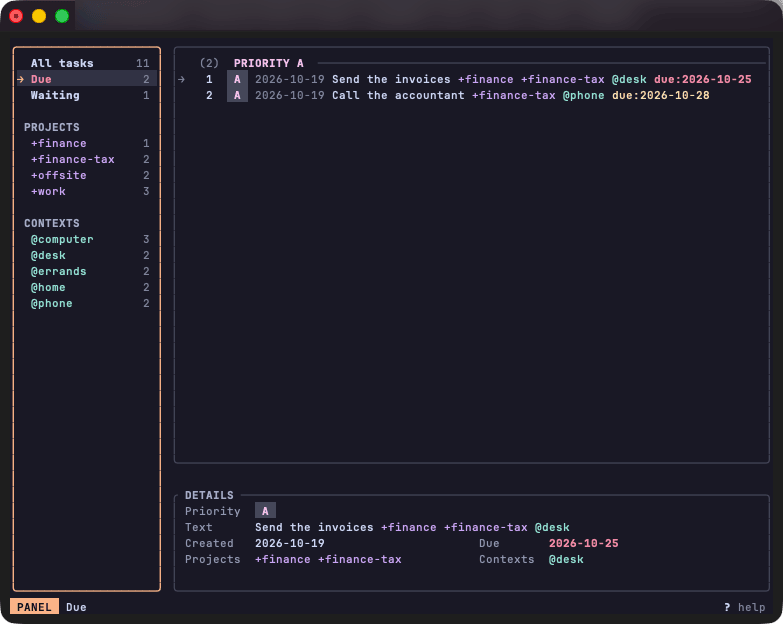
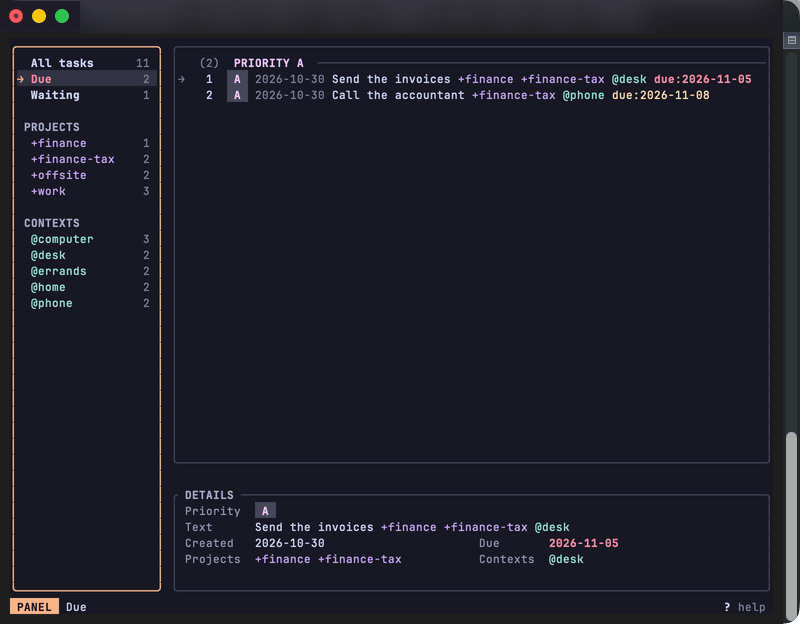
docs(images): retake due, help and history at 800x624 with the current help and fix two alt texts

diff --git a/docs/interactive-list.md b/docs/interactive-list.md
@@ -71,7 +71,7 @@ A done task still in the task file, one typed by hand, is not listed: `todo arch
 
 ### Help
 
-![The key help over the list: the keys of the list, the filter panel, the search, the popup's insert and normal modes, and the calendar](images/help.png)
+![The key help over the list, LIST in peach: the keys of the list, the filter panel, the search, the popup's insert and normal modes and the first keys of its visual mode, with a scrollbar and a j/k scroll hint for the rest](images/help.png)
 
 `?` shows every key, grouped by mode, each mode's name in a block like the status bar's.
 The mode you opened it from is in peach, the others greyed.
@@ -122,7 +122,7 @@ These steps are not saved: they are lost when the list closes or the file is rel
 
 ### History
 
-![The history view: the lines of done.txt in light grey, the last completed first, and the names of the filter panel in the same grey](images/history.png)
+![The history view: the five lines of done.txt in light grey, numbered from 5 down to 1, the last line first, and the filter panel counting their projects and contexts](images/history.png)
 
 `H` swaps the content of the list for `done.txt`, the file next to the task file that `x` and `todo do` fill, and `H` again brings the task file back.
 The tasks are numbered by their position in `done.txt`, as `todo list --done` numbers them, and listed from the last line up, so the task completed last comes first.
